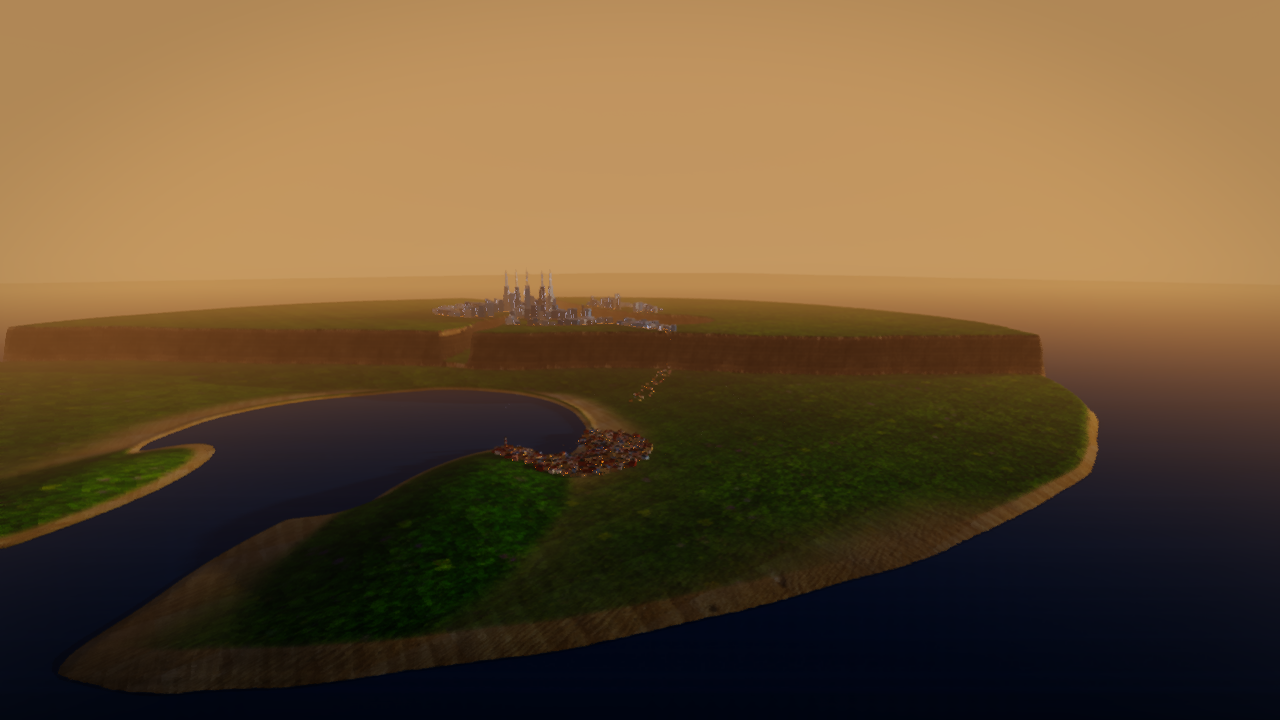
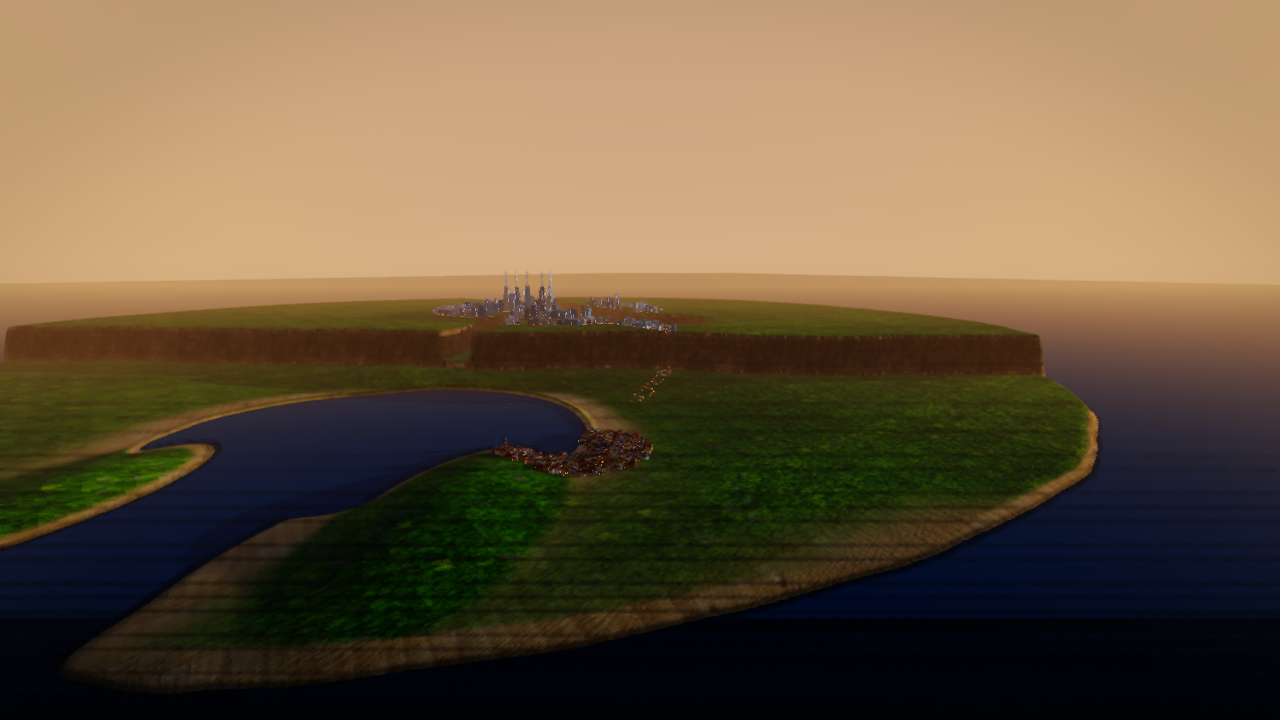
[sibling] fog retune after Tim's amber-soup screenshot: island readable at 3-6km, haze lives at the horizon
density 0.00016+0.00010*low -> 0.00010+0.00004*low, maxOpacity 0.86+0.10*low ->
0.78+0.08*low, start 900. Sea-approach bookmark radius 5600 -> 4400 (the murk was
compounded by parking the camera 5.6km out). Golden horizon still glows; the 4km
island is a subject again, not a silhouette in soup.

diff --git a/app/world_hosts/host_echotropolis.cpp b/app/world_hosts/host_echotropolis.cpp
@@ -360,9 +360,13 @@ void applyAtmosphere(x3::rhi::IRenderDevice* device, const x3::game::TodSample& 
     // blend) so cool-blue + gold never average into gray — the haze reads amber.
     const float goldW = clamp01(low * 1.35f);
     mix3(fog.color, fog.color, kFogGold, goldW);
-    fog.start      = 800.0f;                                   // crisp foreground island
-    fog.density    = 0.00016f + 0.00010f * low;               // subtle by day, thicker low-sun
-    fog.maxOpacity = 0.86f + 0.10f * low;                     // sky glows gold at the horizon
+    // Tuned after Tim's sea-approach screenshot (2026-07-11): the whole 4km island
+    // was drowning in amber soup at golden hour. The haze must live at the HORIZON
+    // (10km+) while the island — a 3-6km subject — stays readable. Halve the
+    // low-sun density ramp and pull the opacity ceiling down.
+    fog.start      = 900.0f;                                   // crisp foreground island
+    fog.density    = 0.00010f + 0.00004f * low;               // subtle by day, gentle low-sun
+    fog.maxOpacity = 0.78f + 0.08f * low;                     // sky still glows gold out far
     device->setFog(fog);
 
     // ---- 2. FILMIC + VIVID GRADE (NMS/storybook: colors you can taste) ---------
@@ -394,6 +398,70 @@ void applyAtmosphere(x3::rhi::IRenderDevice* device, const x3::game::TodSample& 
     device->setShadowBounds(0.0f, 0.0f, 0.0f, 2200.0f);
 }
 
+// ============================ RAY TRACING (hardware RT pass) ==================
+// Owner: RT-enable session (2026-07-11). Opts Echotropolis into the engine's
+// EXISTING hardware ray-query features (IRenderDevice.h ~L505-650). SEPARATE from
+// applyAtmosphere/applyTodSample/applyOcean so it never collides with the sky/
+// water/TOD lane. The device CACHES + re-applies each param every frame, so a
+// single call at host start persists across both the headless and windowed loops.
+//
+// ALL of this is gated on rayTracingSupported(): on a non-RT GPU (Pascal / the
+// 1080Ti boxes / headless-no-RT) this is a pure no-op and the raster/CSM/SSAO
+// path is byte-for-byte identical to before — exactly today's fallback.
+//
+// What we turn on (value order), and what we deliberately don't:
+//   1. RT SOFT SUN SHADOWS (tier 1) — the postcard win: cliff faces, the 446
+//      city buildings, and the lighthouse get soft distance-scaled penumbra under
+//      the golden-hour sun (min()-combined with CSM; skinned chars keep raster).
+//      This host has NO point lights (§3 below), so tier 1 (sun-only) is exactly
+//      the useful work — tier 2 would loop for point occluders that don't exist.
+//   2. RT AO — ground-truth contact occlusion multiplies the HDR scene so the
+//      cottages/props read as SITTING ON the terrain (amphitheater contact), not
+//      floating. Radius widened past the 0.5 m contact default because the city
+//      is viewed from a ~2.8 km orbit — sub-metre AO would be sub-pixel there.
+//   3. RT POINT-LIGHT SHADOWS — SKIPPED ON PURPOSE. The city windows, lighthouse
+//      lantern, and fissure embers are PURELY emissive-material + bloom (this host
+//      calls setPointLights zero times) — there are no real point lights to cast,
+//      so tier-2 point shadows have nothing to shadow. If a future pass promotes
+//      the lantern to a real light, bump tier to 2 and it casts for free.
+//   4. DDGI — DEFERRED (not half-done). Its probe grid would have to span the ~4 km
+//      island; a 24x8x24 auto-fit = ~170 m spacing, far too coarse for window-glow-
+//      onto-streets bounce, and a useful grid needs an AUTHORED tight volume over
+//      the night-city district (like screenshot_hosts' explicit 20x6x20). Deferred
+//      pending that authored AABB rather than shipped coarse.
+//   5. RT REFLECTIONS — NOT touched here (water is the sky/water lane's). The API
+//      is setReflectionParams(ssr/rtFallback/fullRes/intensity); available for that
+//      session to enable on the Gerstner ocean when they choose.
+void applyRayTracing(x3::rhi::IRenderDevice* device) {
+    if (!device->rayTracingSupported()) {
+        x3::logInfo("--world echotropolis: RT unsupported on this device — raster/CSM/SSAO fallback (byte-identical)");
+        return;
+    }
+    // Dev A/B opt-out: ECHO_RT=0 forces the raster/CSM/SSAO path even on RT hardware
+    // (same-content baseline capture + Pascal-parity check). Default: RT ON.
+    if (const char* e = std::getenv("ECHO_RT"); e && e[0] == '0') {
+        x3::logInfo("--world echotropolis: ECHO_RT=0 — RT force-disabled (raster/CSM/SSAO baseline)");
+        return;
+    }
+    // 1. RT soft SUN shadows (sun-only; no point lights in this host).
+    x3::rhi::IRenderDevice::RtShadowParams rs{};
+    rs.tier       = 1;      // sun RT (cone-jittered penumbra, min()-combined w/ CSM)
+    rs.sunSizeDeg = 0.6f;   // golden-hour: a touch softer than the 0.5 deg default
+    device->setRtShadowParams(rs);
+    // 2. RT ambient occlusion (contact grounding; radius widened for orbit vista).
+    x3::rhi::IRenderDevice::RtaoParams ao{};
+    ao.enabled  = true;
+    ao.radius   = 2.0f;     // broader than 0.5 m contact — visible from the orbit
+    ao.rays     = 8;        // half-res + depth-aware upsample keeps this cheap
+    ao.strength = 0.90f;
+    ao.power    = 1.5f;
+    device->setRtaoParams(ao);
+    x3::logInfo("--world echotropolis: RT ENABLED — soft sun shadows (tier1, 0.6deg) + RT AO (r2.0, 8 rays); "
+                "point shadows skipped (emissive city, no point lights), DDGI deferred (4km island), "
+                "reflections left to water lane");
+}
+// ============================ END RAY TRACING ================================
+
 } // namespace
 
 int hostEchotropolis(HostContext& hc) {
@@ -422,6 +490,7 @@ int hostEchotropolis(HostContext& hc) {
     }
     applyTodSample(device, tod.sample());
     applyAtmosphere(device, tod.sample());   // ATMOSPHERE: aerial haze + grade + bloom
+    applyRayTracing(device);                 // RAY TRACING: soft sun shadows + RT AO (gated; no-op on non-RT)
     device->setCameraFar(20000.0f);   // far plane covers the GLB's 14km ocean ring corners
 
     // ---- P2: THE ISLAND. Authored in SimCityLLM2 (gen_heightmap.py seed 20260530),
@@ -705,7 +774,7 @@ int hostEchotropolis(HostContext& hc) {
             if (kd(GLFW_KEY_5)) bookmark(-450.0f,  900.0f, -1.02f, 0.31f, 1400.0f); // THE POSTCARD
             if (kd(GLFW_KEY_6)) bookmark( 412.0f, -106.0f,  3.93f, 0.60f,  950.0f); // crown promenade
             if (kd(GLFW_KEY_7)) bookmark( 331.0f,  459.0f,  2.40f, 0.35f,  750.0f); // fissure rim
-            if (kd(GLFW_KEY_8)) bookmark(   0.0f,    0.0f,  5.50f, 0.10f, 5600.0f); // sea approach
+            if (kd(GLFW_KEY_8)) bookmark(   0.0f,    0.0f,  5.50f, 0.10f, 4400.0f); // sea approach
             if (!todPaused) tod.advance(dt);
             if (tod.phase() != prevPhase) {
                 prevPhase = tod.phase();
